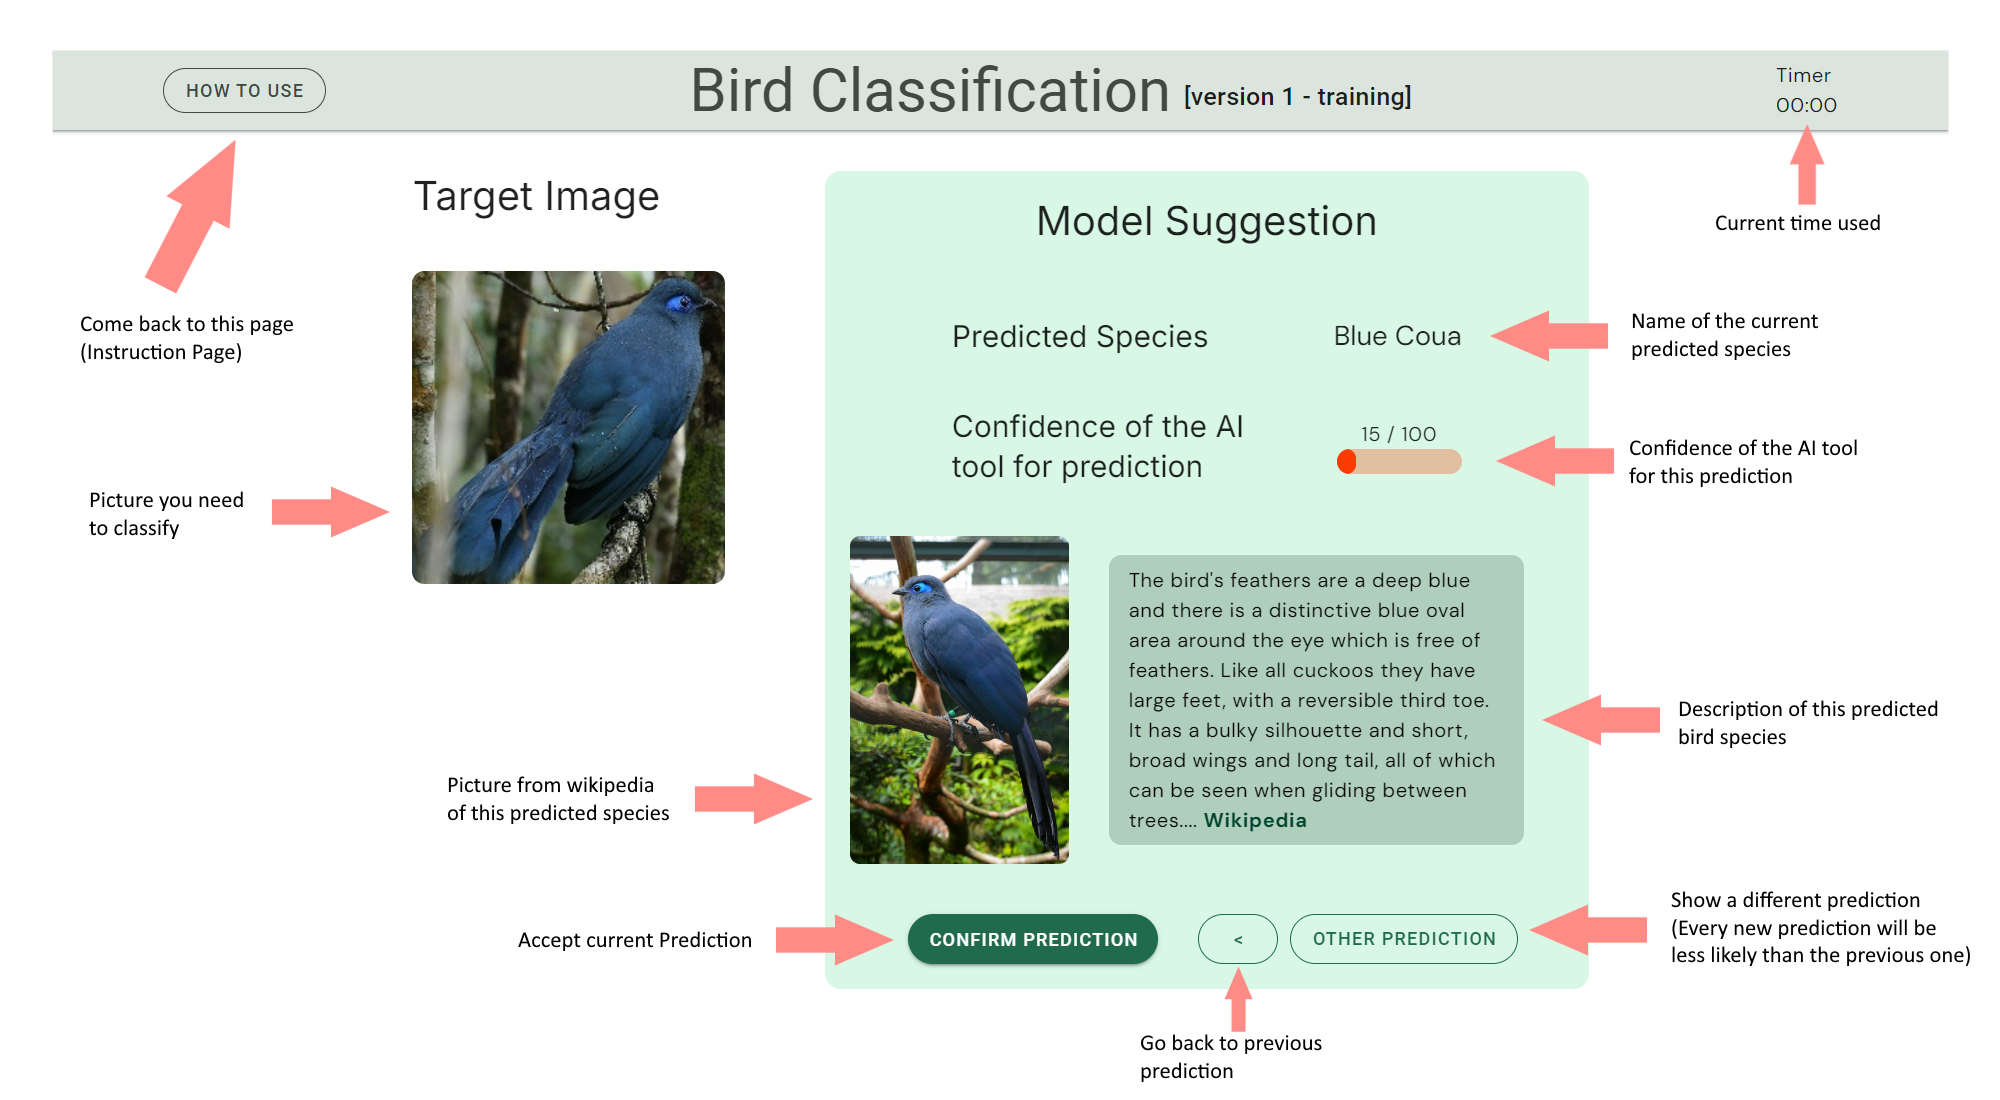
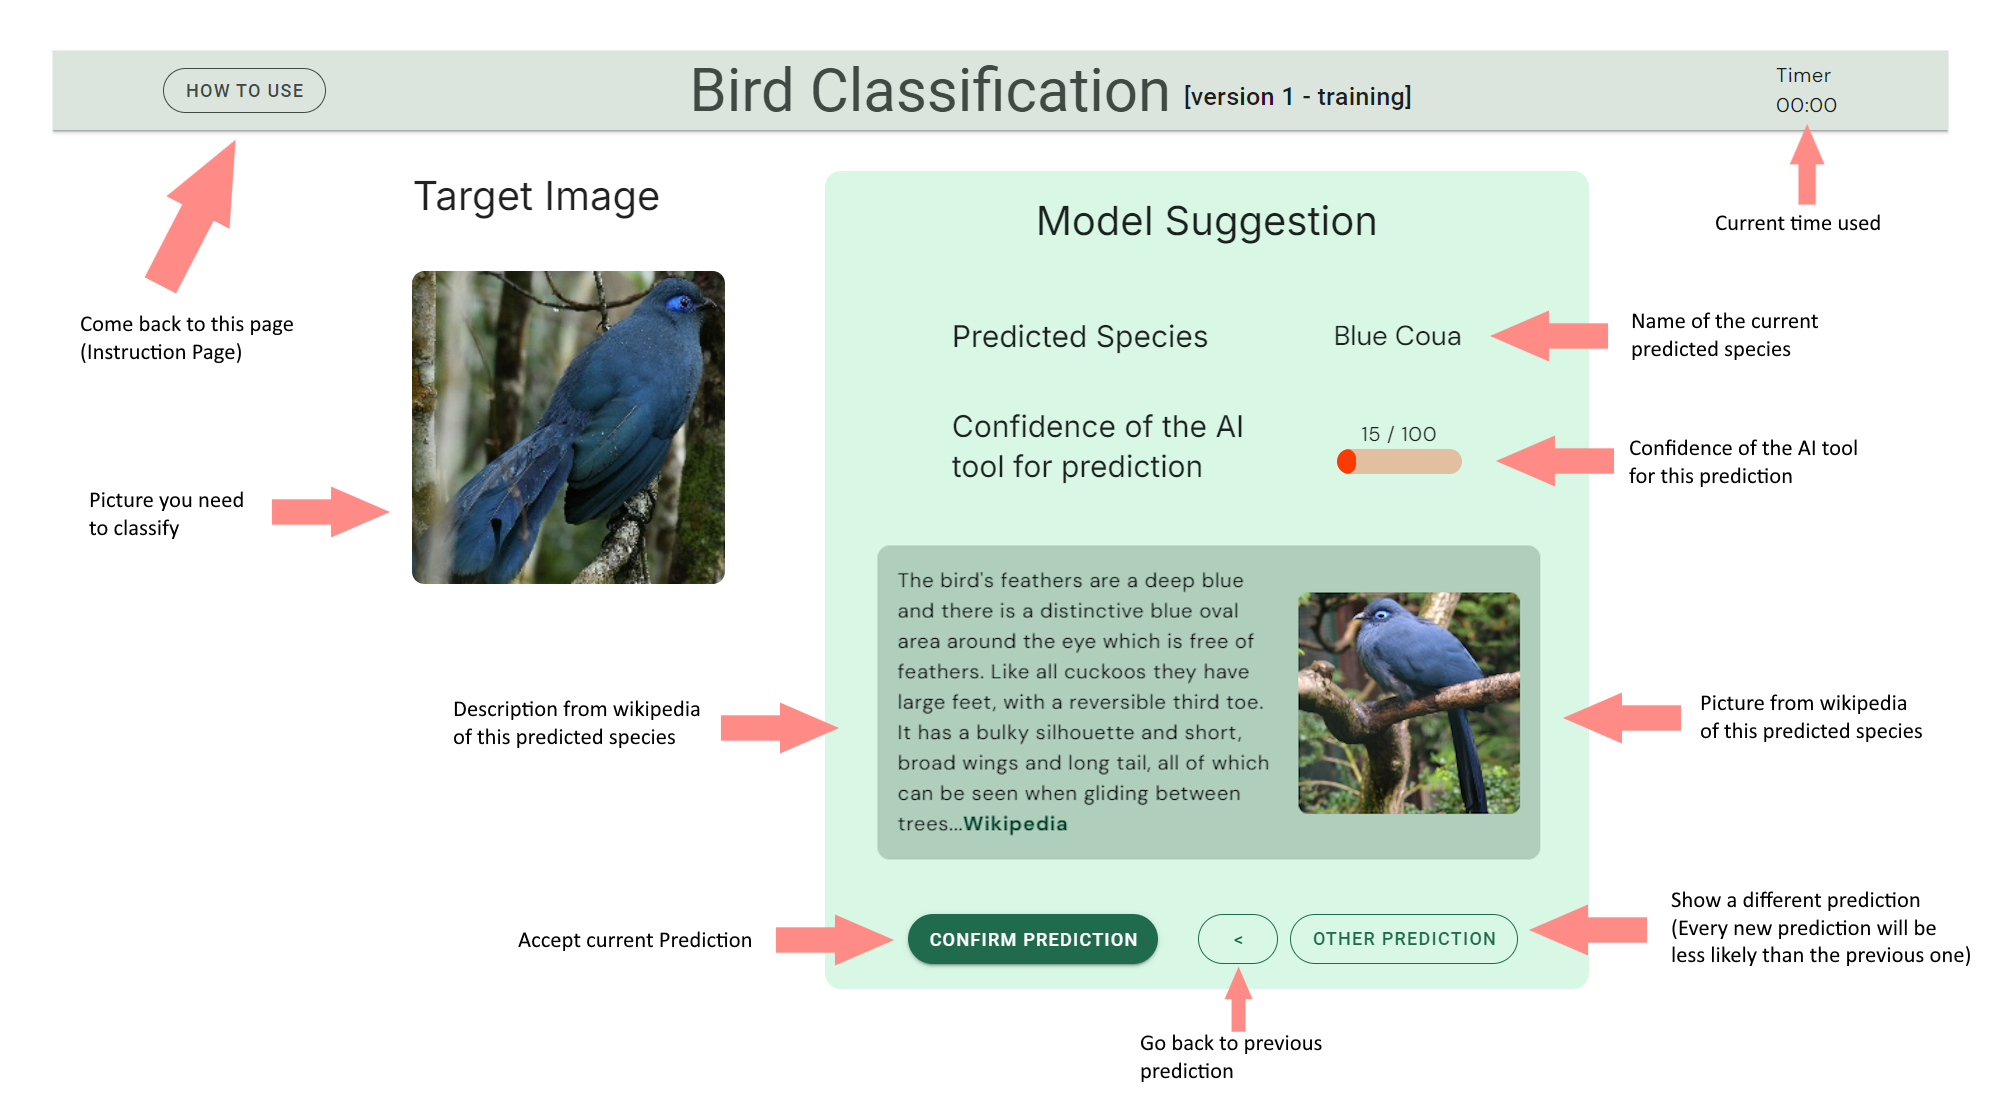
Changed oracle interface, updated tutorial pics, changed wikipedia pic link to smaller picture

Changed region(s): [[0.217, 0.4636, 0.961, 0.8036]]

diff --git a/src/components/InteractionInterface.vue b/src/components/InteractionInterface.vue
@@ -120,7 +120,7 @@
             <img style="max-width: 900px; border: 2px solid black;" src="/src/assets/tutorialSimilarityZoom.png">
 			<h2 class="headline-medium">Scores</h2>
             <p class="body-large" style="margin-bottom: -15px;">
-                Depending on the time you use and the amount of correct answer you give, you will be placed in one of three tiers:
+                Your performance will be ranked in one of three tiers based on your time and correctness of your decisions:
             </p>
             <ul style="padding-left: 20px;" class="body-large">
                 <li>Professional Birdwatcher</li>
@@ -128,92 +128,6 @@
                 <li>Novice Birdwatcher</li>
             </ul>
 
-            <!---<p class="body-large" style="line-height: 1.5;">
-                During this experiment you will be asked to identify various species of birds, with the help of an AI
-                assistant.
-			</p>
-            <p class="headline-small" style="line-height: 0.5;">
-                Structure
-            </p>
-            <p class="body-large" style="line-height: 1.5;">
-                This interface is built such that, per each task, on the left of the monitor you will be shown one
-                <b>Target Image</b>, which is the picture of the bird you will try to identify. While on the right,
-                you will be proposed 3 <b>Suggested Species</b> of birds (based on the AI model), you will then be asked to
-                identify, among these suggested results, which is the correct one. The suggested species will be shown
-				so that the left-most one is the one with the highest likely to be correct (based on the AI model guess), while 
-				the right-most one is the lowest likely to be correct (based on the AI model guess).<br />
-                In order to identify the correct species, for each of the <b>Suggested Species</b>, you will be given
-                multiple tools:<br />
-            </p>
-            <ul style="padding-left: 25px;">
-                <li class="body-large" style="line-height: 1.5;">A brief physical description of the bird, from its
-                    Wikipedia page;</li>
-                <li class="body-large" style="line-height: 1.5;">The ability to open the Wikipedia page in order to find
-                    more information;</li>
-                <li class="body-large" style="line-height: 1.5;">A series of picture of said species that are the
-                    <b>Most Similar</b>
-                    to the target image, according to the AI assistant;</li>
-                <li class="body-large" style="line-height: 1.5;">A series of picture of said species that are the
-                    <b>Least Similar</b>
-                    to the target image, according to the AI assistant;</li>
-            </ul>
-            <p class="body-large" style="line-height: 1.5;">
-                When you have decided which guess you believe to be the right one, you can confirm it by opening the
-                bird page and clicking on the
-                <b>Confirm Selection</b> button. <br />
-                Once confirmed your selection, you will be shown another <b>Target Image</b> and a new series of
-                <b>Suggested Species</b>, until the end of the experiment. <br /><br />
-
-				In the top right corner of the screen you will be shown a bar that indicates how much time you have left
-                to complete the current task. If the timer reaches 0, you will pass to the next task and it will be
-                marked as an error.<br /><br />
-                You will be able to go back and read the instructions anytime you want, but the time will keep going for
-                the task, similarly, if you decide open the wikipedia pages of the birds, time will keep going down.
-			</p>
-            
-
-            <h2 class="headline-large">
-                Example of a Task
-            </h2>
-            <p class="body-large" style="line-height: 1.5;">
-                1. This will be the initial interface, with the <b>Target Image</b> on the left and the 3 <b>Suggested
-                    Species</b> on the right
-            </p>
-            <img style="max-width: 100%;" src="./../assets/Step1Interaction.png">
-            <p class="body-large" style="line-height: 1.5;">
-                2. By clicking one of the suggested species, the card will open and it will show you more information
-                that you can navigate through
-            </p>
-            <img style="max-width: 100%;" src="./../assets/Step2Interaction.png">
-            <p class="body-large" style="line-height: 1.5;">
-                3. Once you analysed the information, you will be able to confirm the selection, if you believe that the
-                species is the correct one, or go back to the initial interface and analyse the others species
-            </p>
-			<p class="headline-small" style="line-height: 0.5;">
-                Progress
-            </p>
-            <p class="body-large" style="line-height: 1.5;">
-                This section of the experiment will be composed of <b>10 Tasks.</b><br />
-                Each task will be timed, based on the total time used and the number of correct answers, 
-                after completing both interfaces you will be placed in one of 3 tiers: <br />
-			</p>
-			<ul style="padding-left: 25px;">
-                <li class="body-large" style="line-height: 1.5;">Professional Birdwatcher</li>
-                <li class="body-large" style="line-height: 1.5;">Amateur Birdwatcher</li>
-                <li class="body-large" style="line-height: 1.5;">Novice Birdwatcher</li>
-            </ul>
-            <h2 class="headline-small" style="line-height: 0.5;">Notes</h2>
-            <p class="body-large" style="line-height: 1.5;">
-                The first two tasks will be for you to explore and learn the interface, the timer for neither of the
-                tasks will be started, the navigation bar on top will also change color, to signal that you are in 
-                the tutorial section.
-                During this time, you can also ask any question to the assistant. <br />
-                After the second task, the bar on top will change color once again, to signal that the experiment is started. 
-                The timer for the task will be started and
-                from that moment up until you complete this section, you should avoid interacting with the assistant.
-                When you reach the end of this section, the interface will change and you will be asked to complete a 
-                survey on the interface you just used.
-            </p>-->
         </div>
 
 		<div

diff --git a/src/components/OracleInterfaceFlex.vue b/src/components/OracleInterfaceFlex.vue
@@ -33,24 +33,29 @@
                 </div>
 
                 <div class="oracle-wiki-container">
-                    <div>
-                        <v-img 
-                        class="rounded-lg"
-                        :src="mainStore?.currentTask?.species[store.speciesVisualized].wikipic" 
-                        :width="175"                        
-                        >
-
-                        </v-img>
-
-                    </div>
-                    <div class="oracle-wiki-text mx-8 py-2 px-4" style="background-color: #AFCEBC;">
-                        <p class="oracle-wiki-description body-large" style="color:#000000;  max-width: 300px;"> {{
+                    
+                    <div class="oracle-wiki-text mx-8 py-4 px-4" style="background-color: #AFCEBC;">
+						
+                        <p class="body-large mr-4" style="color:#000000;  max-width: 300px;"> {{
                             mainStore.currentTask.species[store.speciesVisualized].description.substr(0,300) }}...
                             <a class='wikilink' @click="openWikiLink()"
                                 :href="mainStore.currentTask.species[store.speciesVisualized].wikiLink"
                                 target='_blank'>Wikipedia</a>
                         </p>
+						<div class="rounded-lg oracle-picture" :max-width="175">
+							<div class="rounded-lg oracle-picture" :max-height="220">
+								<v-img 
+								class="rounded-lg"
+								:src="mainStore?.currentTask?.species[store.speciesVisualized].wikipic" 
+								:width="175"
+								>
+								</v-img>
+							</div>
+						</div>
+						
                     </div>
+						
+
                 </div>
 
                 <div class="oracle-species-confidence">
@@ -82,11 +87,6 @@
             <h2 class="headline-large">Interface Description</h2>
             <img style="max-width: 900px; border: 2px solid black;" src="/src/assets/tutorialOracle.png">
             
-            <h2 class="headline-medium">Notes</h2>
-            <p class="body-large" style="margin-bottom: -15px;">
-                There will be 3 predictions per task, after which they will rotate. The order of the predictions will be from the 
-                one with the highest confidence, to the one with the lowest one.
-            </p>
             <h2 class="headline-medium">Scores</h2>
             <p class="body-large" style="margin-bottom: -15px;">
                 Your performance will be ranked in one of three tiers based on your time and correctness of your decisions:
@@ -244,6 +244,7 @@ async function confirmSelection(){
 		const oldUI = mainStore.currentUI;
         store.nextTask(); 
         scroll(0,0)
+		noMorePredictions.value = false;
         if(mainStore.runTask.length > 1)
             btnHelpPageText.value = "To the Task"
 		if (oldUI === mainStore.currentUI) {

diff --git a/src/assets/css/Disposition.css b/src/assets/css/Disposition.css
@@ -83,13 +83,9 @@ li + li {
 
 .oracle-wiki-text{
     display: flex;
-    flex-direction: column;
+    flex-direction: row;
     flex-wrap: nowrap;
     border-radius: 10px;
-}
-
-.oracle-wiki-description{
-    width: 35rem;
 }
 
 .oracle-confidence{
@@ -116,6 +112,14 @@ li + li {
     /* justify-content: space-evenly; */
     align-items: flex-start;
     gap: 10px;
+}
+
+.oracle-picture{
+    display: flex;
+    flex-direction: column;
+    flex-wrap: nowrap;
+    justify-content: center;
+    align-items: center;
 }
 
 /* Interactive Interface */
